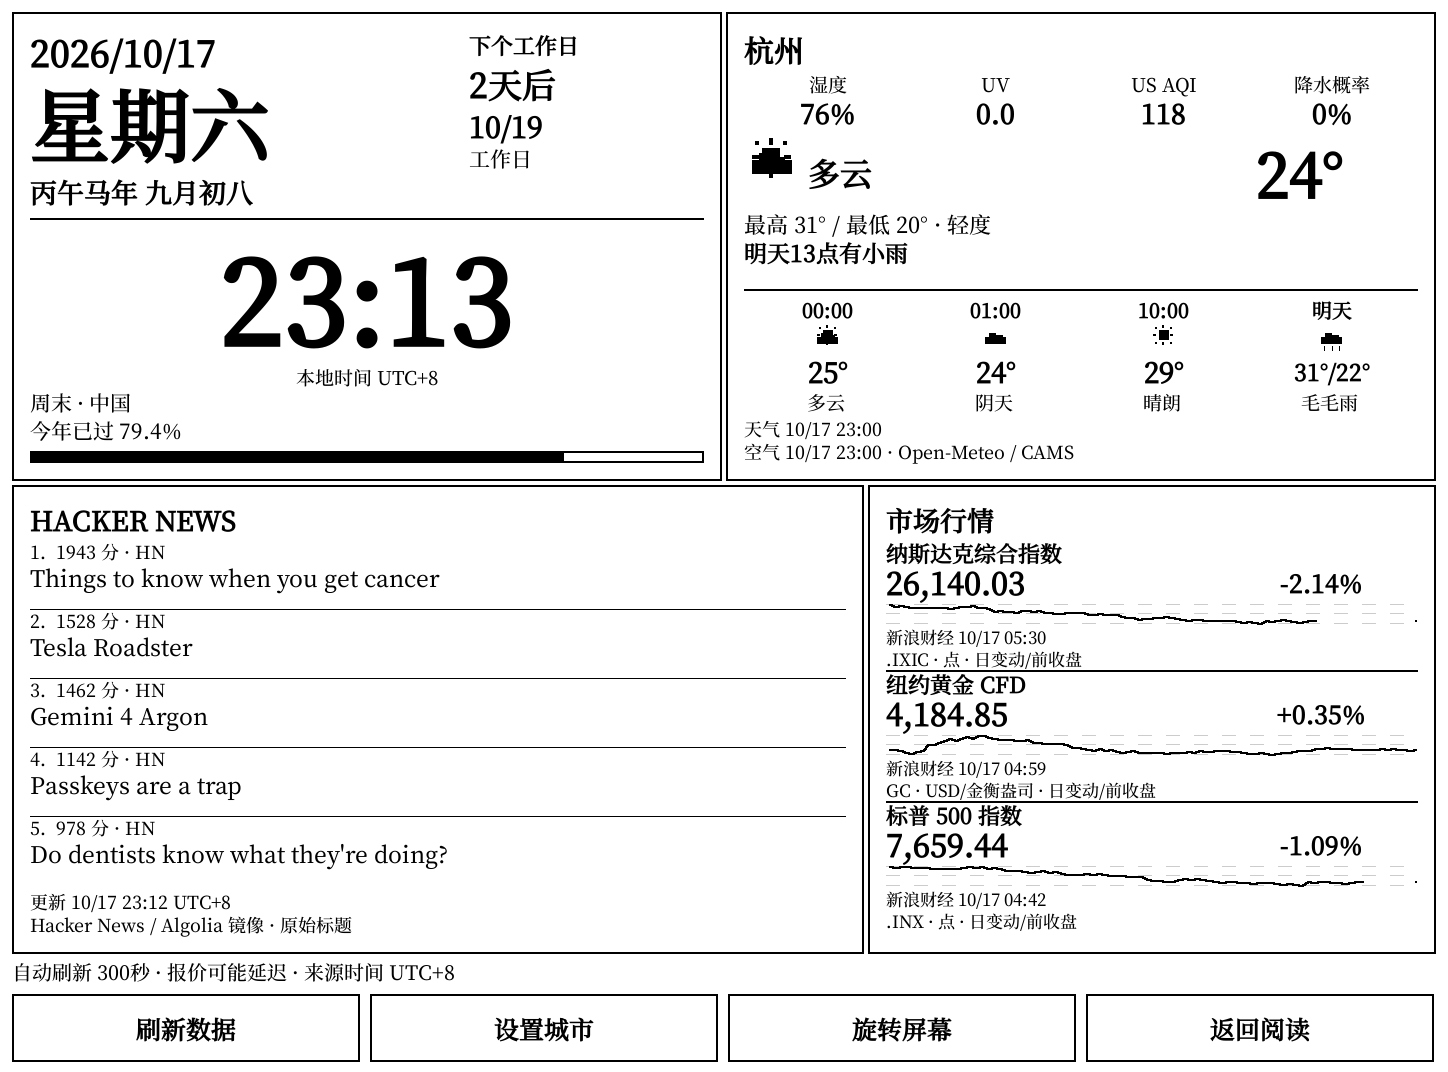
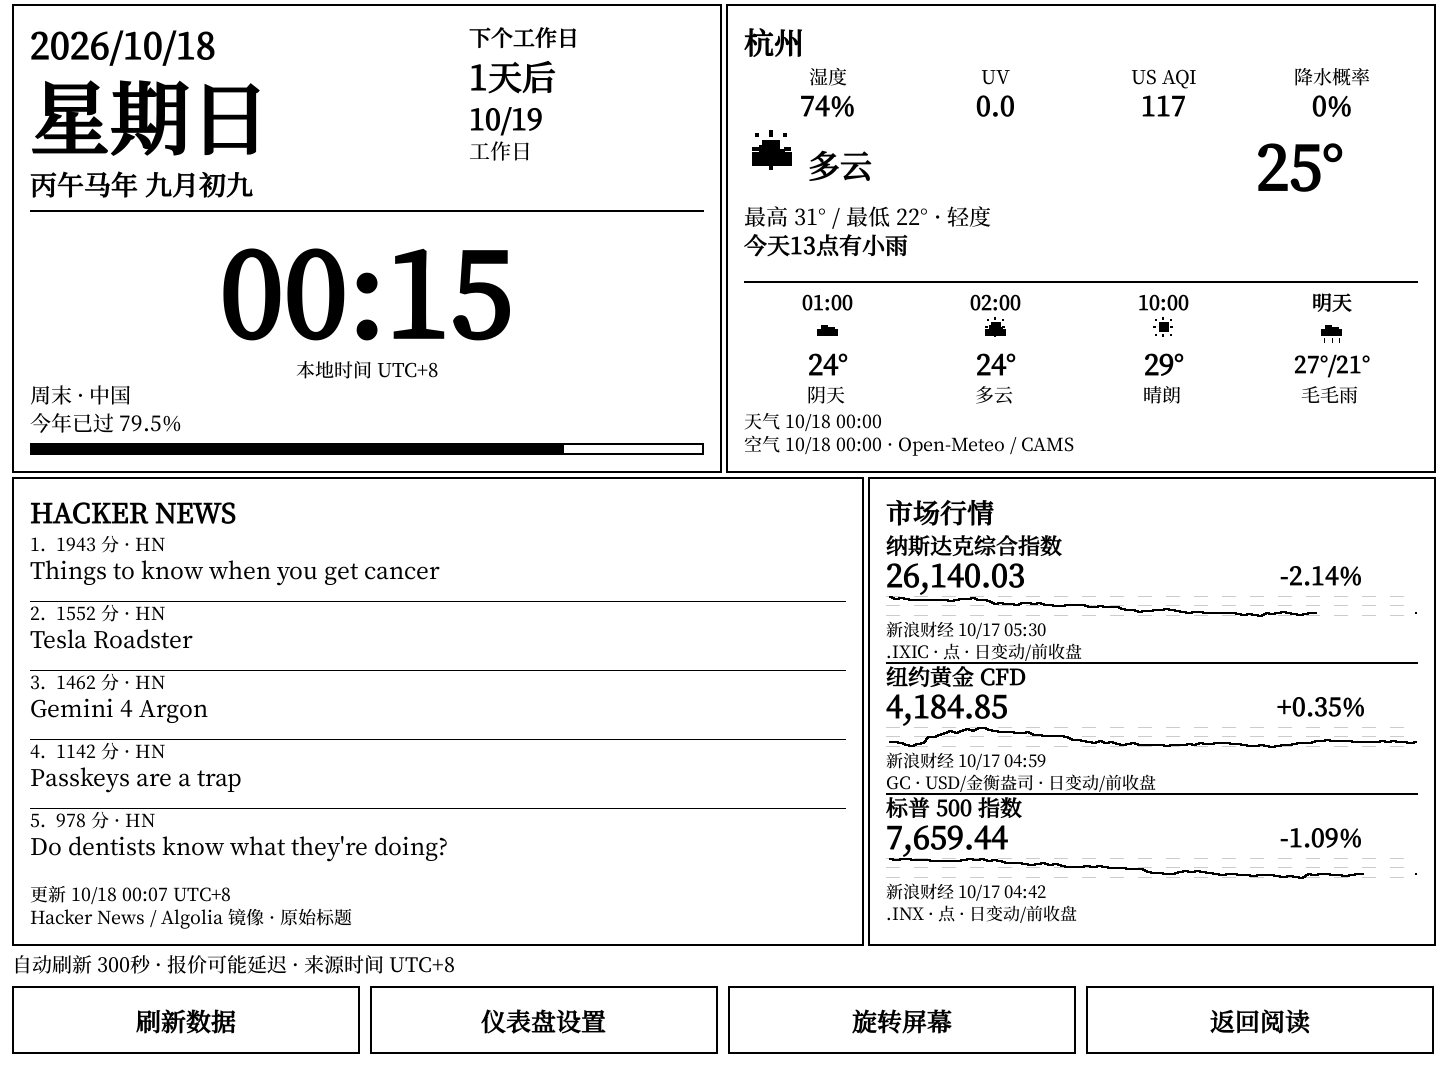
Add dashboard display retention and frontlight controls

diff --git a/README-en.md b/README-en.md
@@ -44,7 +44,7 @@ The script connects as `root`, checks `/mnt/us/koreader`, copies the plugin and 
 
 In KOReader, open **More tools > 阅读仪表盘**. When Moon is installed and its public `desktop.tabs` extension point is available, its desktop also offers an **仪表盘** tab. From KUAL, **Kindle-Dashboard > Open Dashboard** launches KOReader and opens the dashboard automatically. If KOReader is already running, use its internal menu.
 
-The bottom buttons are **刷新数据** (refresh), **设置城市** (settings), **旋转屏幕** (rotate), and **返回阅读** (return to reading). The settings dialog lets you select a weather city or change the news feed. Try an English city name if Chinese search returns no results. Custom news URLs must use HTTPS; leave the field empty to restore Hacker News. The response is a JSON array, for example:
+The bottom buttons are **刷新数据** (refresh), **仪表盘设置** (dashboard settings), **旋转屏幕** (rotate), and **返回阅读** (return to reading). Settings include display retention, frontlight brightness, weather city, and news feed. Try an English city name if Chinese search returns no results. Custom news URLs must use HTTPS; leave the field empty to restore Hacker News. The response is a JSON array, for example:
 
 ```json
 [{"title":"Story title","meta":"Source description","url":"https://example.com/story","time":1792195200}]
@@ -52,13 +52,17 @@ The bottom buttons are **刷新数据** (refresh), **设置城市** (settings), 
 
 Only the first five entries are read. `title` is required; other fields are optional, and `time` is Unix seconds.
 
-The dashboard attempts a refresh when opened, then waits 300 seconds after each refresh completes before the next one. Automatic refresh does not turn on disconnected Wi-Fi; manual refresh can invoke KOReader’s network connection flow. Requests run in a cancellable subprocess, and a tap can cancel the wait. Failed sources retain their available cached data, original timestamps, and stale indicators. A first launch without cached data shows empty fields. The clock and calendar continue locally while offline. The open dashboard prevents automatic standby; manual suspend pauses refreshes, and resume restarts them.
+**保持显示** (keep display on) is enabled by default and prevents automatic screen saver and automatic suspend while the dashboard is open. Turning it off or returning to reading restores the previous keep-awake state. The power button still allows manual sleep, which pauses refreshes; waking restores the saved preference. On Kindle, this uses the native screen saver timer to preserve manual sleep.
+
+**前光亮度** opens KOReader's native frontlight panel, with a slider, plus/minus buttons, minimum, maximum, and an on/off switch. Changes take effect immediately and remain in effect when returning to reading. Display retention does not turn on the frontlight; keeping the device running and increasing brightness both use more battery. [View settings](dashboard-settings.png).
+
+The dashboard attempts a refresh when opened, then waits 300 seconds after each refresh completes before the next one. Automatic refresh does not turn on disconnected Wi-Fi; manual refresh can invoke KOReader's network connection flow. Requests run in a cancellable subprocess, and a tap can cancel the wait. Failed sources retain their available cached data, original timestamps, and stale indicators. A first launch without cached data shows empty fields. The clock and calendar continue locally while offline.
 
 Rotation uses KOReader’s native screen orientation interface, with no device-specific rotation number to configure. “返回阅读” closes the dashboard, restores the previous orientation, and returns to the reader or file manager. Moon’s desktop reflows for the restored orientation without a device reboot.
 
 Settings and cache live in KOReader’s settings directory, usually `/mnt/us/koreader/settings/`:
 
-- `kindledashboard.lua`: weather city, coordinates, timezone, and custom news URL.
+- `kindledashboard.lua`: display retention, weather city, coordinates, timezone, and custom news URL. KOReader manages frontlight settings.
 - `kindledashboard-cache.json`: the latest data snapshot, initially marked stale when reloaded after restart.
 
 The refresh interval and three market symbols are currently defined in the plugin’s `market.lua` defaults; the settings dialog does not expose them.
@@ -67,7 +71,7 @@ The refresh interval and three market symbols are currently defined in the plugi
 
 After installation, confirm the menu entry appears, then check all four panels, city changes, manual and automatic refresh, cached data after disconnecting Wi-Fi, portrait/landscape rotation, and orientation restoration when returning to reading. With Moon, also check the desktop tab. Read source timestamps and stale indicators to distinguish cached observations from current data.
 
-Device checks include searching for “杭州”, selecting Hangzhou in Zhejiang, and tapping settings and return while a refresh is active. Settings dialogs appear above the dashboard. Cancelled refreshes repaint widgets before replaying button taps, preventing lost taps and touch-feedback errors.
+Device checks include searching for “杭州”, selecting Hangzhou in Zhejiang, and tapping settings and return while a refresh is active. Settings dialogs appear above the dashboard. Cancelled refreshes repaint widgets before replaying button taps, preventing lost taps and touch-feedback errors. Display retention checks cover preference persistence, repeated open/close, restoration of previous keep-awake states, and manual sleep and resume. Frontlight checks cover the slider, plus/minus buttons, and switch, with actual hardware brightness readings.
 
 KUAL launch output is written to `/tmp/kindle-dashboard-launch.log`. For plugin loading or runtime errors, inspect KOReader’s `crash.log`. Public API availability, rate limits, and regional connectivity can affect refreshes.
 

diff --git a/README.md b/README.md
@@ -44,7 +44,7 @@ sh scripts/deploy.sh KINDLE_IP 2222 ~/.ssh/id_ed25519
 
 在 KOReader 中打开 **More tools（更多工具） > 阅读仪表盘**。安装 Moon 且其公开 `desktop.tabs` 扩展点可用时，桌面还会显示 **仪表盘** 标签。也可从 KUAL 的 **Kindle-Dashboard > Open Dashboard** 启动 KOReader 并自动打开仪表盘；若 KOReader 已运行，请使用其内部菜单。
 
-底部按钮提供 **刷新数据**、**设置城市**、**旋转屏幕** 和 **返回阅读**。“设置城市”会打开设置对话框，可选择城市或修改新闻源；城市搜索无结果时可尝试英文名称。自定义新闻地址必须为 HTTPS，留空恢复 Hacker News，响应为 JSON 数组，例如：
+底部按钮提供 **刷新数据**、**仪表盘设置**、**旋转屏幕** 和 **返回阅读**。设置对话框提供保持显示、前光亮度、天气城市和新闻源。城市搜索无结果时可尝试英文名称。自定义新闻地址必须为 HTTPS，留空恢复 Hacker News，响应为 JSON 数组，例如：
 
 ```json
 [{"title":"新闻标题","meta":"来源说明","url":"https://example.com/story","time":1792195200}]
@@ -52,13 +52,17 @@ sh scripts/deploy.sh KINDLE_IP 2222 ~/.ssh/id_ed25519
 
 最多读取前五项；`title` 必填，其他字段可选，`time` 为 Unix 秒。
 
-打开时会尝试刷新，此后每轮完成后等待 300 秒再刷新。自动刷新不会主动打开断开的 Wi-Fi；手动刷新可进入 KOReader 的联网流程。网络请求在可取消的子进程中进行，轻触可取消等待。各数据源失败时尽量保留相应缓存、原始时间和旧数据标记；首次使用且无缓存时显示空缺。离线时本地时钟与日历仍可工作。仪表盘打开期间阻止自动待机；手动休眠会暂停刷新，唤醒后恢复。
+**保持显示**默认开启，仅在仪表盘打开时阻止自动屏保和自动休眠；关闭开关或返回阅读后，恢复进入前的保持唤醒状态。电源键仍可手动休眠，期间暂停刷新，唤醒后按已保存的开关恢复。Kindle 使用原生屏保计时接口，保留手动休眠能力。
+
+**前光亮度**打开 KOReader 原生前光面板，支持滑块、加减、最小值、最大值与开关。调整立即生效，并在返回阅读后保留所选亮度。保持显示不会自动打开前光；保持设备运行和提高前光亮度都会增加耗电。[查看设置界面](dashboard-settings.png)。
+
+打开时会尝试刷新，此后每轮完成后等待 300 秒再刷新。自动刷新不会主动打开断开的 Wi-Fi；手动刷新可进入 KOReader 的联网流程。网络请求在可取消的子进程中进行，轻触可取消等待。各数据源失败时尽量保留相应缓存、原始时间和旧数据标记；首次使用且无缓存时显示空缺。离线时本地时钟与日历仍可工作。
 
 旋转使用 KOReader 原生屏幕方向接口，不需要填写机型旋转编号。点击“返回阅读”关闭仪表盘，恢复进入前的方向和阅读器/文件管理器；Moon 桌面会按恢复后的方向重新布局，无需重启设备。
 
 设置与缓存位于 KOReader 的设置目录（通常为 `/mnt/us/koreader/settings/`）：
 
-- `kindledashboard.lua`：天气城市、坐标、时区与自定义新闻地址。
+- `kindledashboard.lua`：保持显示开关、天气城市、坐标、时区与自定义新闻地址；前光设置由 KOReader 管理。
 - `kindledashboard-cache.json`：最近数据快照，重启后先作为旧数据展示。
 
 刷新周期和三个行情标的当前在插件 `market.lua` 的默认配置中定义，设置界面未提供对应选项。
@@ -67,7 +71,7 @@ sh scripts/deploy.sh KINDLE_IP 2222 ~/.ssh/id_ed25519
 
 安装后确认菜单入口可见，再检查四个面板、城市切换、手动与自动刷新、断网保留旧数据、横竖屏切换及返回阅读后的方向恢复。使用 Moon 时也应检查桌面标签入口。查看来源时间和旧数据标记，避免把缓存误认为实时数据。
 
-真机验证覆盖了中文搜索“杭州”、选择“杭州 · 浙江 · 中国”，以及刷新期间点击“设置城市”和“返回阅读”。设置弹窗显示在仪表盘上方；取消刷新后先完成控件重绘，再处理按钮点击，避免点击丢失或触摸反馈错误。
+真机验证覆盖了中文搜索“杭州”、选择“杭州 · 浙江 · 中国”，以及刷新期间点击“仪表盘设置”和“返回阅读”。设置弹窗显示在仪表盘上方；取消刷新后先完成控件重绘，再处理按钮点击，避免点击丢失或触摸反馈错误。保持显示验证包括开关保存、重复打开/关闭、恢复原来的保持唤醒状态，以及电源键休眠和唤醒恢复；前光验证包括滑块、加减和开关，并核对实际硬件亮度。
 
 KUAL 启动日志位于 `/tmp/kindle-dashboard-launch.log`；插件加载或运行问题可查看 KOReader 的 `crash.log`。公共数据接口的可用性、限流和地区网络访问会影响刷新结果。
 
